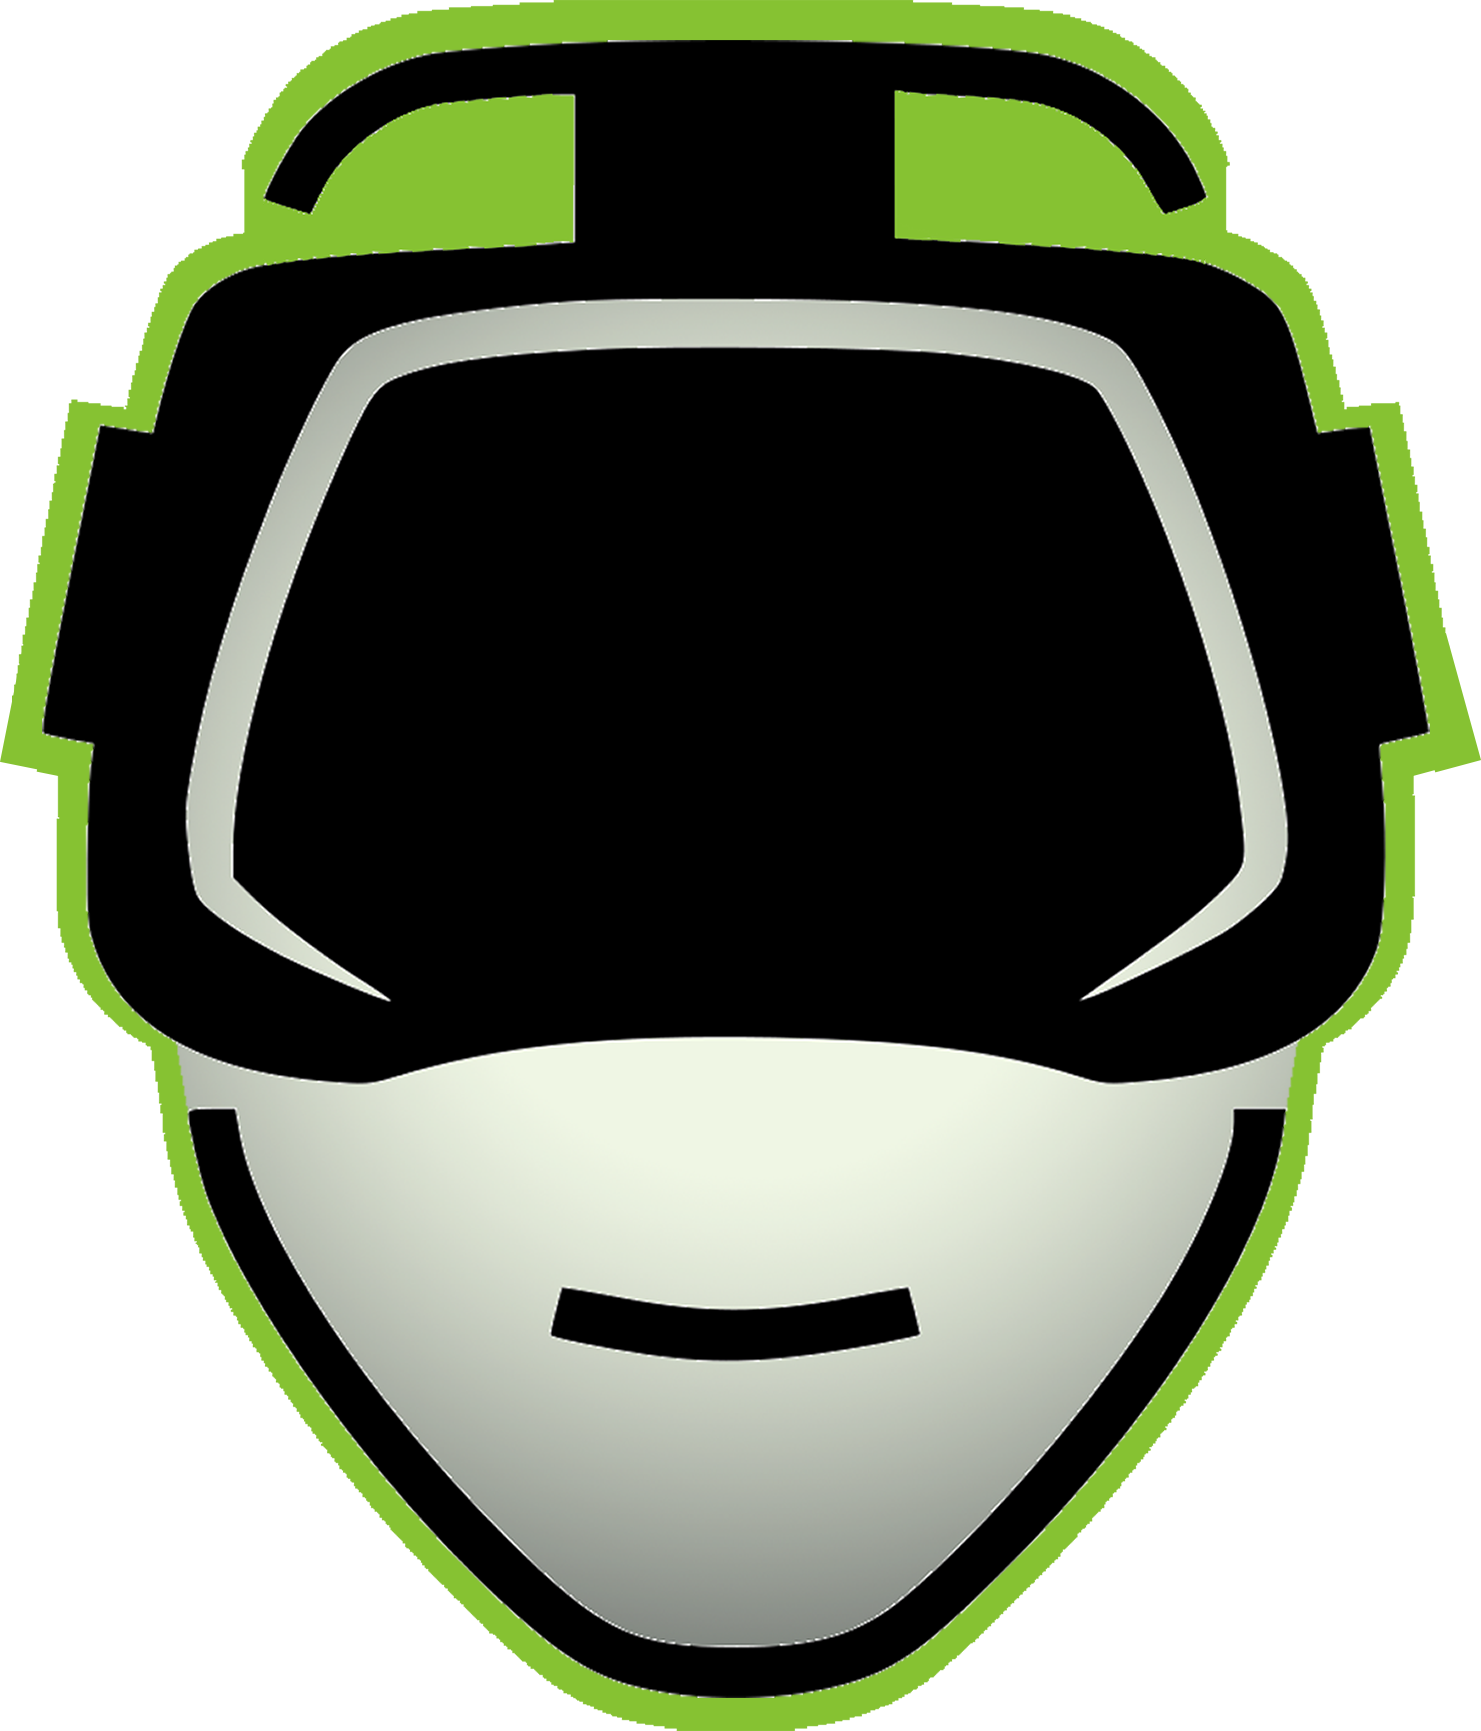
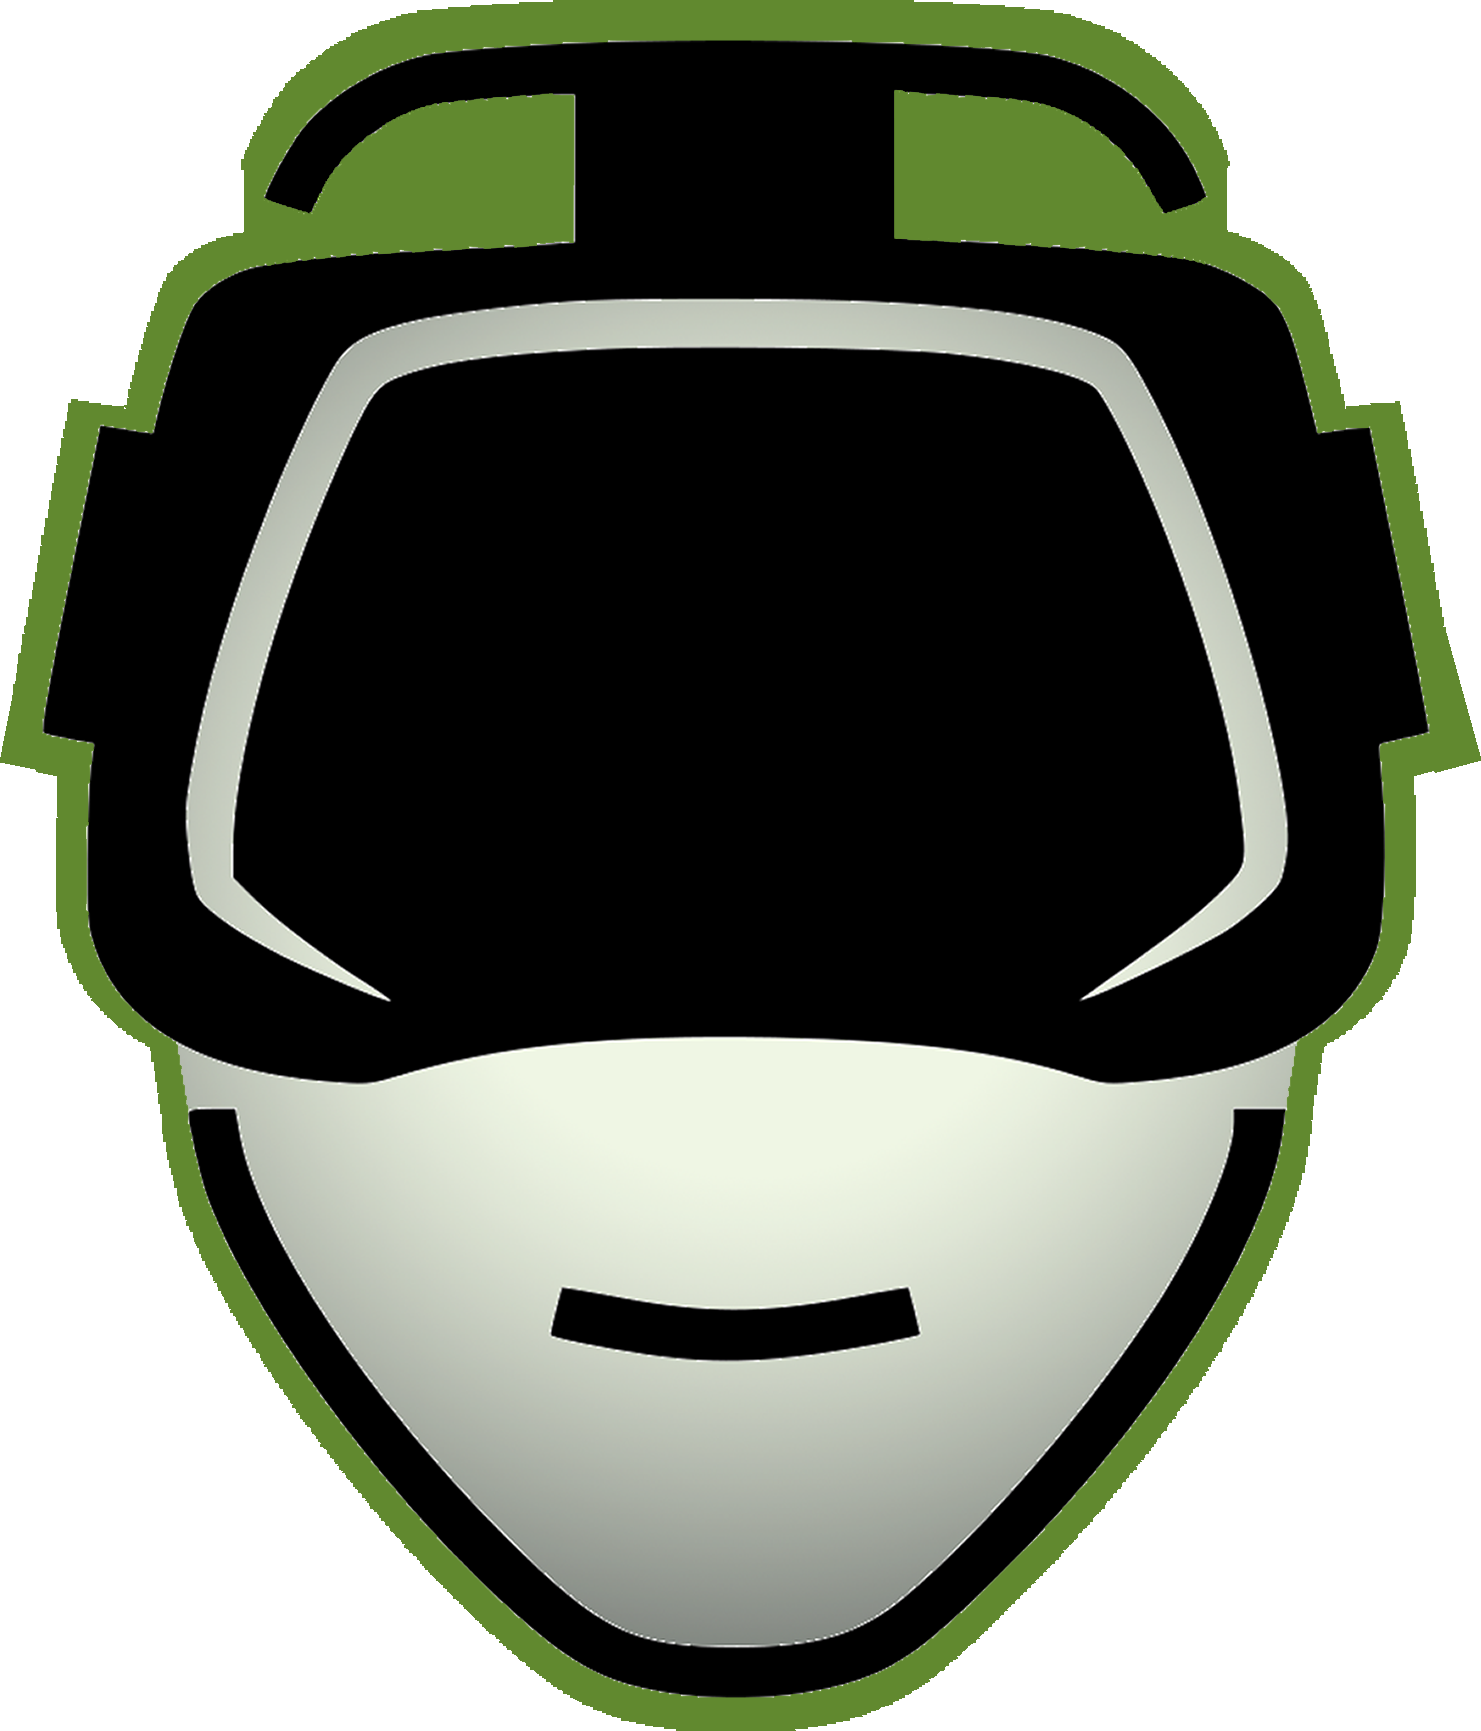
New Changes

Changed region(s): [[0.0, 0.0, 1.0, 0.5927], [0.0932, 0.5927, 0.9007, 1.0]]

diff --git a/css/stylesheet.css b/css/stylesheet.css
@@ -27,7 +27,7 @@ h3 {
     border: 1px #86C232 solid;
     padding: 10px;
     //text-shadow: 1px 1px 3px #4c6063;
-    color: #66FCF1;
+    color: white;
     background-color: rgba(200, 200, 200, 0.1);
     //background: radial-gradient(rgba(200, 200, 200, 0.2), rgba(200, 200, 200, 0.2));
 }
@@ -37,7 +37,7 @@ h3 {
     background-color: #222629 ;
     text-decoration: none;
     padding: 5px;
-    color: #66FCF1;
+    color: #86C232;
     align-self: center;
 }
     
@@ -719,7 +719,7 @@ button#decreasetext {
     padding: 2em;}
 
 .backtoGallery a {
-    color: #66FCF1;
+    color: white;
     text-decoration: none;
     justify-self: center;
     padding-top: 2em;;
@@ -729,10 +729,8 @@ button#decreasetext {
     justify-content: center;
     grid-row-start: 2;
     font-size: 18px;
-    //background: radial-gradient(#66FCF1, #222629 );
     background-color: #222629 ;
     border: 2px #86C232 solid;
-    //border-radius: 15px;
     font-family: 'Source Sans Pro', sans-serif;
 }
 
@@ -786,7 +784,7 @@ button#decreasetext {
     background-color: #222629 ;
     text-decoration: none;
     padding: 5px;
-    color: #66FCF1;
+    color: #86C232;
     align-self: center;
 }
     
@@ -1483,7 +1481,7 @@ button#decreasetext {
     padding: 2em;}
 
 .backtoGallery a {
-    color: #66FCF1;
+    color: white;
     text-decoration: none;
     justify-self: center;
     padding-top: 2em;;
@@ -1493,10 +1491,7 @@ button#decreasetext {
     justify-content: center;
     grid-row-start: 2;
     font-size: 18px;
-    //background: radial-gradient(#66FCF1, #222629 );
-    background-color: #222629 ;
-    border: 2px #86C232 solid;
-    //border-radius: 15px;
+    background-color: #86C232;
     font-family: 'Source Sans Pro', sans-serif;
 }
 
@@ -1557,7 +1552,7 @@ button#decreasetext {
 @media screen and (max-width:665px) {
 
 .current a{
-    background-color: #66FCF1;
+    background-color: white;
     padding: 1em;
 }
 
@@ -1566,7 +1561,7 @@ button#decreasetext {
     background-color: #222629 ;
     text-decoration: none;
     padding: 5px;
-    color: #66FCF1;
+    color: #86C232;
 }
     
 #container {
@@ -1635,7 +1630,7 @@ main {
 }
 
 .dropdown-content a {
-    color: #66FCF1;
+    color: white;
     padding: 1em;
     text-decoration: none;
     display: block;
@@ -1644,7 +1639,7 @@ main {
 }
 
 .dropdown a:hover {
-    background-color: rgba(54, 69, 71, 0.7);
+    background-color: rgba(97, 137, 47, 0.7);
     //padding: 1em;
     }
 
@@ -1789,8 +1784,7 @@ button#decreasetext {
     display:grid;
     grid-template-columns: repeat(3, 1fr);
     padding: .2em;
-    grid-gap: .1em;
-    font-family: sans-serif; 
+    grid-gap: 1em; 
 }
 
 #content a{
@@ -1847,20 +1841,21 @@ button#decreasetext {
     grid-column: 1/ span 3;
 }
 
-#content a {
-    color:#66FCF1;
-}
     
 #content .about a {
     color:#222629 ;
 }
 
 .info {
-    background-color: #222629 ;
+    background-color: #61892F;
     }    
 
 #content .info a{
-    color: #66FCF1;  
+    color: white;  
+    font-family: 'Source Sans Pro', sans-serif;
+    font-size: 16px;
+    font-weight:100;
+    text-transform: uppercase;
     }
     
 #content .info:nth-child(2){
@@ -1870,7 +1865,6 @@ button#decreasetext {
     display:grid;
     grid-template-columns: 1fr;
     grid-template-rows: auto;
-    //padding:1em;
     justify-content: center;
     font-family: 'Source Sans Pro', sans-serif;
     text-align: center;
@@ -2290,7 +2284,6 @@ button#decreasetext {
     display:grid;
     grid-template-columns: repeat(12, 1fr);
     grid-template-rows: 1fr;
-    //border-bottom: 1px #66FCF1 solid;
 }
 .vidmenu {
     display: none;
@@ -2354,7 +2347,7 @@ button#decreasetext {
     padding: 2em;}
 
 .backtoGallery a {
-    color: #66FCF1;
+    color: white;
     text-decoration: none;
     justify-self: center;
     padding-top: 1em;;

diff --git a/index.html b/index.html
@@ -31,7 +31,7 @@
                 </div>
             </header>
             <div class="headerimage"><img src="./img/bg.jpg" alt="Image of Mountains"></div>
-            <main id="content" role="main">
+            <main id="content">
                 <div class="about">
                     <div class="articleheader">
                         <h2>About VR for the Elderly</h2>
